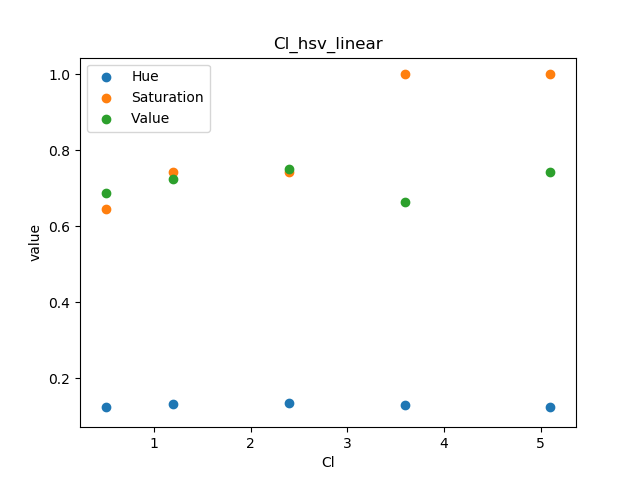
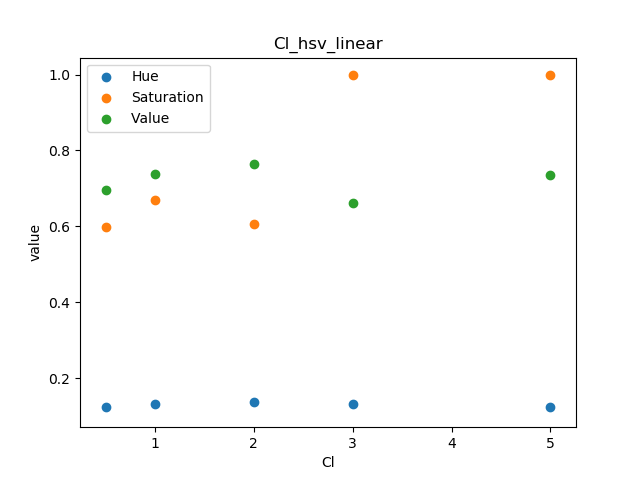
Added first chlorine test with new calibration images.

diff --git a/tests.py b/tests.py
@@ -13,10 +13,10 @@ from sensing_playground import interpolate_rgb_values
 from sensing import get_img, interpolate_chemical_property_from_img_rgb, visualize, get_average_rgb_from_img, get_scale_map, interpolate_chemical_property_from_img_hue
 from helpers import running_on_rpi
 
+# Global parameters
 test_accuracy = 0.2
 visualize_fails = True
-
-folder = None
+chemical_property = None
 
 class TestTesting(unittest.TestCase):
 
@@ -31,6 +31,7 @@ class TestSensingHardware(unittest.TestCase):
 
 		init.init(arg_vals['verbose'])
 
+
 	def test_reagent_solenoid_valve(self):
 		pass
 
@@ -38,19 +39,17 @@ class TestSensingHardware(unittest.TestCase):
 class TestSensingPh(unittest.TestCase):
 
 	def setUpClass():
-		global folder 
-		folder = 'pH'
-
-		arg_vals = init.get_args()
-
-		init.init(arg_vals['verbose'])
+		global chemical_property 
+		global test_accuracy
+		chemical_property = 'pH'
+		test_accuracy = 0.2
 
 	def run_test(self, test_value, image_file):
-		global folder 
+		global chemical_property 
 
-		test_file = 'unit/' + folder + '/' + image_file
+		test_file = 'unit/' + chemical_property + '/' + image_file
 		img = get_img('file', test_file)
-		value = interpolate_chemical_property_from_img_hue('pH', img)
+		value = interpolate_chemical_property_from_img_hue(chemical_property, img)
 
 		print("[TEST]: Testing %f = %f" % (value, test_value))
 
@@ -59,7 +58,7 @@ class TestSensingPh(unittest.TestCase):
 		except Exception:
 			if visualize_fails:
 				r,g,b = get_average_rgb_from_img(img)
-				scale = get_scale_map('pH')
+				scale = get_scale_map(chemical_property)
 				visualize([r,g,b], scale)
 
 		return abs(value - test_value)
@@ -95,5 +94,42 @@ class TestSensingPh(unittest.TestCase):
 		self.assertLess(self.run_test(test_value, file_name), test_accuracy)
 
 
+class TestSensingCl(unittest.TestCase):
+
+	def setUpClass():
+		global chemical_property 
+		global test_accuracy
+		chemical_property = 'Cl'
+		test_accuracy = 0.5
+
+	def run_test(self, test_value, image_file):
+		global chemical_property 
+
+		test_file = 'unit/' + chemical_property + '/' + image_file
+		img = get_img('file', test_file)
+		value = interpolate_chemical_property_from_img_hue(chemical_property, img)
+
+		print("[TEST]: Testing %f = %f" % (value, test_value))
+
+		try:
+			self.assertLess(abs(value - test_value), test_accuracy)
+		except Exception:
+			if visualize_fails:
+				r,g,b = get_average_rgb_from_img(img)
+				scale = get_scale_map(chemical_property)
+				visualize([r,g,b], scale)
+
+		return abs(value - test_value)
+
+	def test_1_0(self):
+		test_value = 1.0 
+		file_name = '1,0.png'
+		self.assertLess(self.run_test(test_value, file_name), test_accuracy)
+
+
 if __name__ == '__main__':
+	arg_vals = init.get_args()
+
+	init.init(arg_vals['verbose'])
+
 	unittest.main()

diff --git a/sensing_playground.py b/sensing_playground.py
@@ -217,11 +217,11 @@ if __name__ == '__main__':
 
     init.init(arg_vals['verbose'])
 
-    create_interpolated_rgb_graph('pH', 20, False)
+    create_interpolated_rgb_graph('Cl', 20, False)
 #    create_interpolated_rgb_graph('alkalinity', 20, False)
 #    create_interpolated_rgb_graph('Cl', 20, False)
 
-    create_scale_hue_graph('pH')
+    create_scale_hue_graph('Cl')
 
     test_values = [['pH',6.8],['pH',7.0],['pH',7.3],['pH',7.4]]
 

diff --git a/helpers.py b/helpers.py
@@ -22,9 +22,9 @@ def parse_xml(file_name):
 	count = 0
 	for child in root:
 
-		if (root[count].text == 'true'):
+		if (root[count].text == 'true' or root[count].text == 'True'):
 			data[child.tag] = True
-		elif (root[count].text == 'false'):
+		elif (root[count].text == 'false' or root[count].text == 'False'):
 			data[child.tag] = False 
 		elif (True == (root[count].text).isdigit()):
 			data[child.tag] = int(root[count].text)
